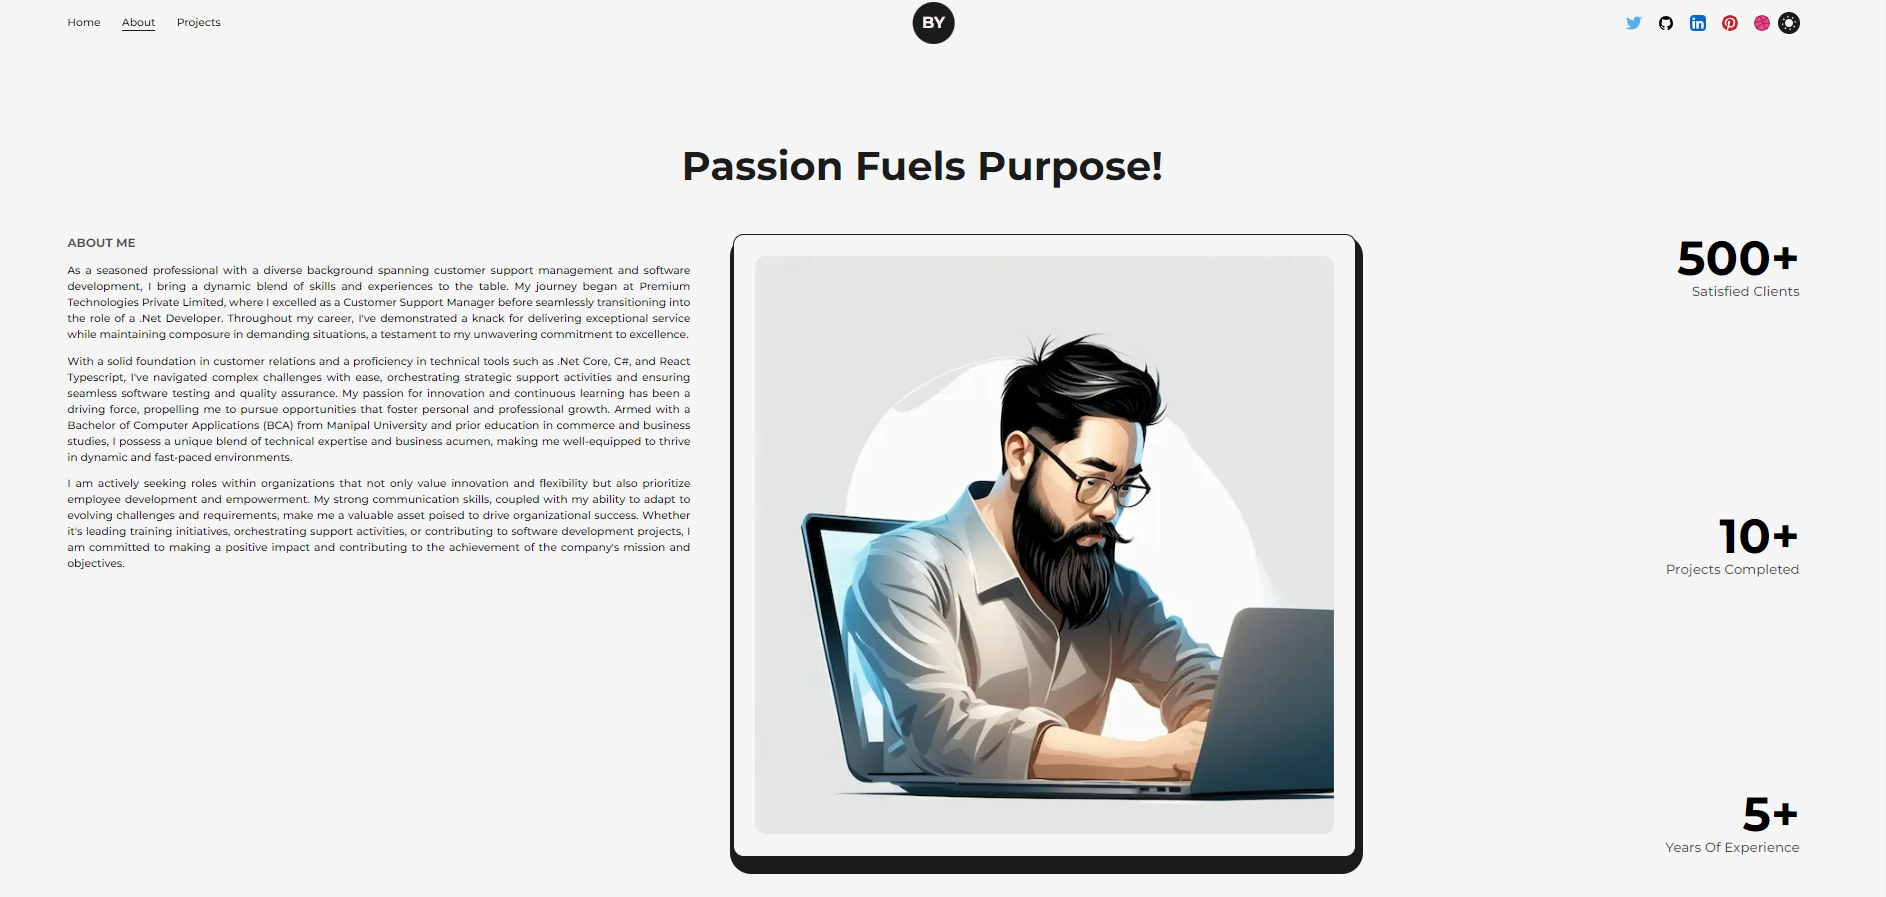
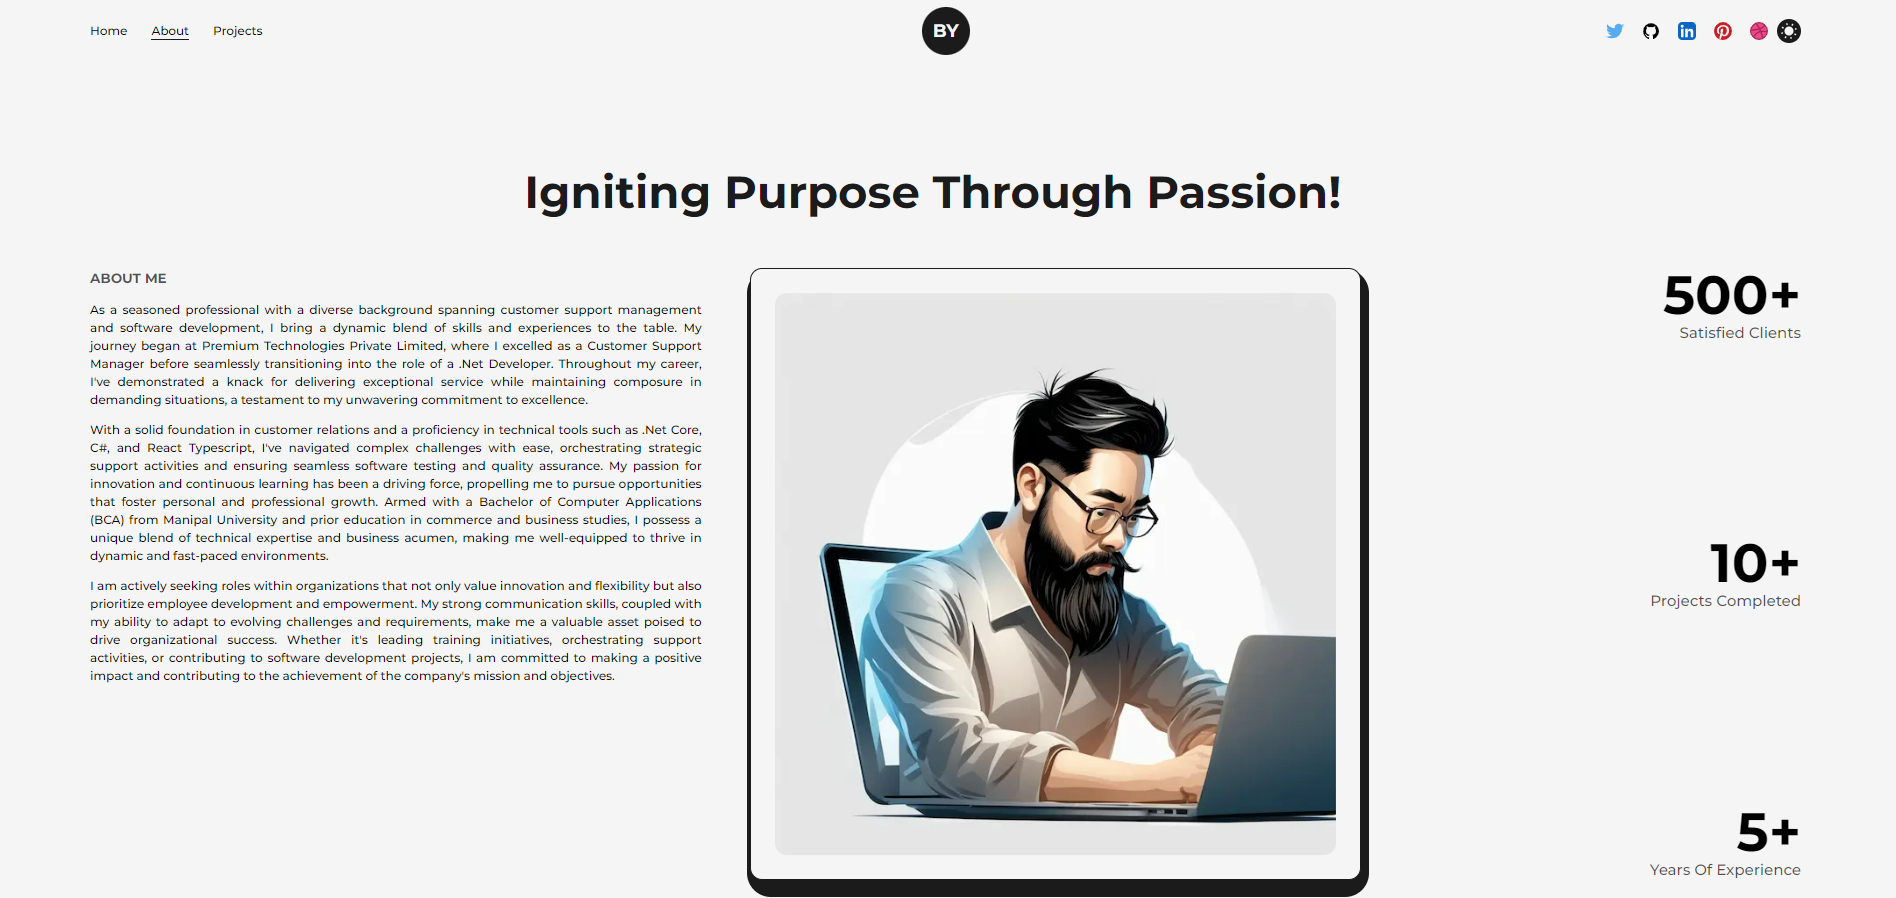
Final pictures

diff --git a/src/pages/index.js b/src/pages/index.js
@@ -32,7 +32,7 @@ export default function Home() {
             </div>
             <div className="w-1/2 flex-col items-center self-center lg:w-full lg:text-center">
               <AnimatedText
-                text="Turning Vision Into Reality With Code And Design."
+                text="Weaving Dreams into Digital Realities with Code and Design."
                 className="text-6xl  text-left xl:text-5xl lg:text-center lg:text-4xl md:text-3xl sm:text-4xl"
               />
               <p className="my-4 text-base font-medium md:text-sm sm:text-xs">

diff --git a/src/pages/about.js b/src/pages/about.js
@@ -44,7 +44,7 @@ const About = () => {
       <main className="flex w-full flex-col items-center justify-center dark:text-light">
         <Layout className="pt-16">
           <AnimatedText
-            text="Passion Fuels Purpose! "
+            text="Igniting Purpose Through Passion! "
             className="sm:mb-8 mb-16 text-6xl text-center xl:text-5xl lg:text-center lg:text-4xl md:text-3xl sm:text-2xl"
           />
           <div className="grid w-full grid-cols-8 gap-16 sm:gap-8">
